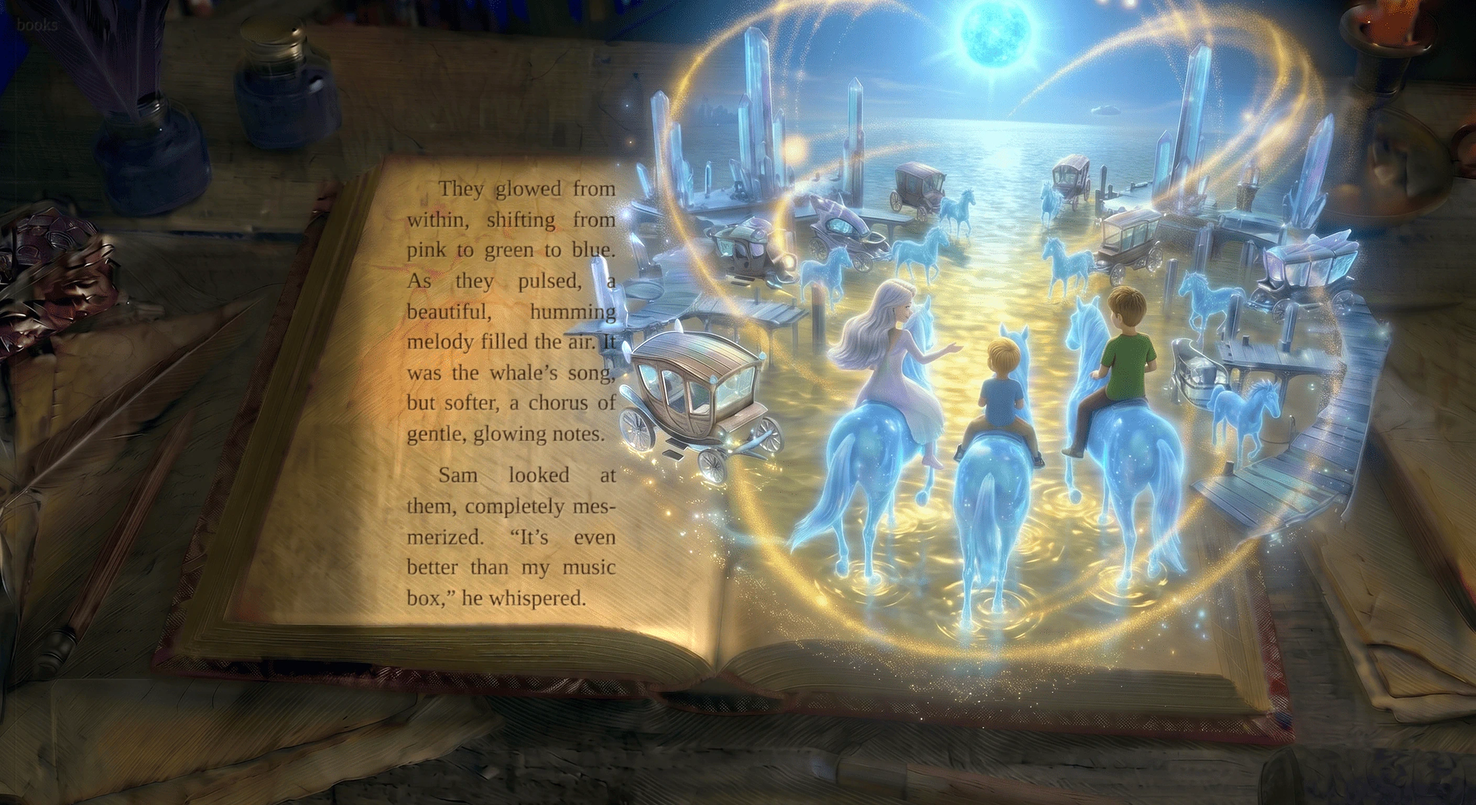
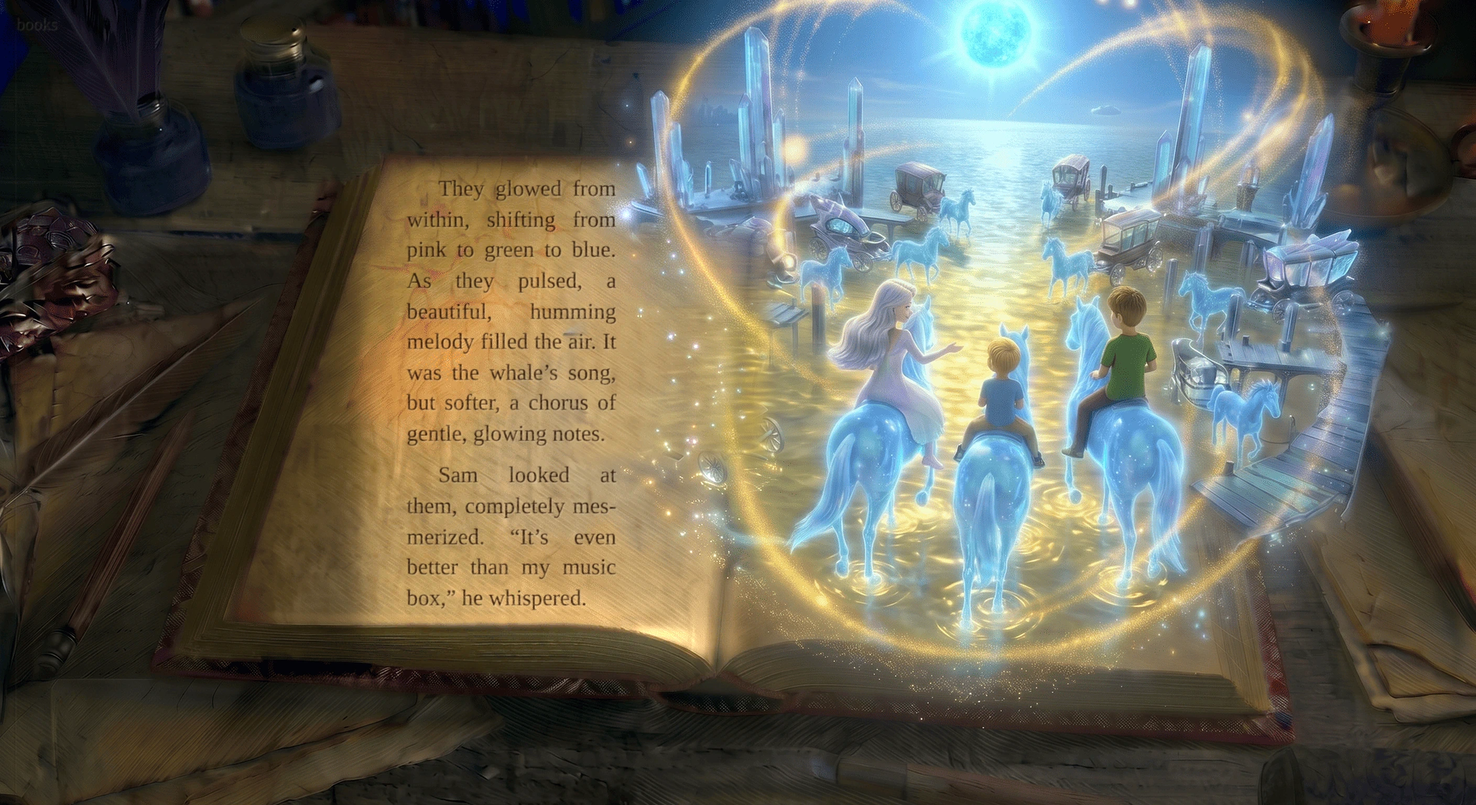
Chapter 2: remove stuck wagon from p32 pages
Claude-Session: https://claude.ai/code/session_01BFtifSTdmWYaAK88ECs5PE

Changed region(s): [[0.375, 0.2812, 0.5312, 0.5938]]

diff --git a/books/upside-down-world/index.html b/books/upside-down-world/index.html
@@ -212,7 +212,7 @@ const vids={};let blackT=null;
 function black(){if(!blackT&&gl){blackT=gl.createTexture();gl.bindTexture(gl.TEXTURE_2D,blackT);gl.texImage2D(gl.TEXTURE_2D,0,gl.RGB,1,1,0,gl.RGB,gl.UNSIGNED_BYTE,new Uint8Array([0,0,0]));}return {ready:true,t:blackT};}
 function loadVid(name){if(vids[name])return vids[name];const v=document.createElement('video');v.muted=true;v.defaultMuted=true;v.loop=true;v.playsInline=true;v.setAttribute('playsinline','');v.setAttribute('muted','');v.preload='auto';v.crossOrigin='anonymous';v.src='img/'+name+'.mp4';
   const o={v,t:null,ok:false};v.addEventListener('playing',()=>{o.ok=true;});vids[name]=o;return o;}
-function pageTex(p){if(p.video)return {c:loadTex('img/'+p.img+'.webp?v=4'),d:p.relief?loadTex('img/'+p.img+'-d.webp'):black(),vid:loadVid(p.video)};return {c:loadTex('img/'+p.img+'.webp?v=4'),d:loadTex('img/'+p.img+'-d.webp')};}
+function pageTex(p){if(p.video)return {c:loadTex('img/'+p.img+'.webp?v=5'),d:p.relief?loadTex('img/'+p.img+'-d.webp'):black(),vid:loadVid(p.video)};return {c:loadTex('img/'+p.img+'.webp?v=5'),d:loadTex('img/'+p.img+'-d.webp')};}
 const ORIGIN={kb:[.72,.55],shade:[.80,.74]};
 function whv(p){return p.whale?[p.whale[0]/1408,p.whale[1]/768,p.whale[2]/1408,p.whale[3]/768]:[0,0,0,0];}
 function swv(p){return p.swirl?[p.swirl[0]/1408,p.swirl[1]/768,p.swirl[2],p.swirl[3]||0]:[0,0,0,0];}
@@ -237,7 +237,7 @@ function makeLayer(i){
   if(layers[i])return layers[i];
   const p=P[i],L=document.createElement('div');L.className='layer';
   const kb=document.createElement('div');kb.className='kb';kb.style.transformOrigin=(p.fx==='shade'?'80% 74%':'72% 55%');
-  if(!gl){let im;if(p.video){im=loadVid(p.video).v;im.poster='img/'+p.img+'.webp';}else{im=new Image();im.src='img/'+p.img+'.webp?v=4';im.alt='';}im.className='fb';kb.appendChild(im);}
+  if(!gl){let im;if(p.video){im=loadVid(p.video).v;im.poster='img/'+p.img+'.webp';}else{im=new Image();im.src='img/'+p.img+'.webp?v=5';im.alt='';}im.className='fb';kb.appendChild(im);}
   if(p.fx==='shade'){const s=document.createElement('div');s.className='shade';kb.appendChild(s);L._shade=s;}
   if(p.song){const r=document.createElement('div');r.className='rings';r.style.cssText='left:'+(650/W*100)+'%;top:'+(55/H*100)+'%;width:'+(130/W*100)+'%;height:'+(130/H*100)+'%';r.innerHTML='<i></i><i></i><i></i><i></i>';kb.appendChild(r);L._rings=r;}
   const t=document.createElement('div');t.className='txt'+(p.cover?' cover':'')+(p.book?' bk':'')+(p.songcard?' sc':'');const b=p.box;
